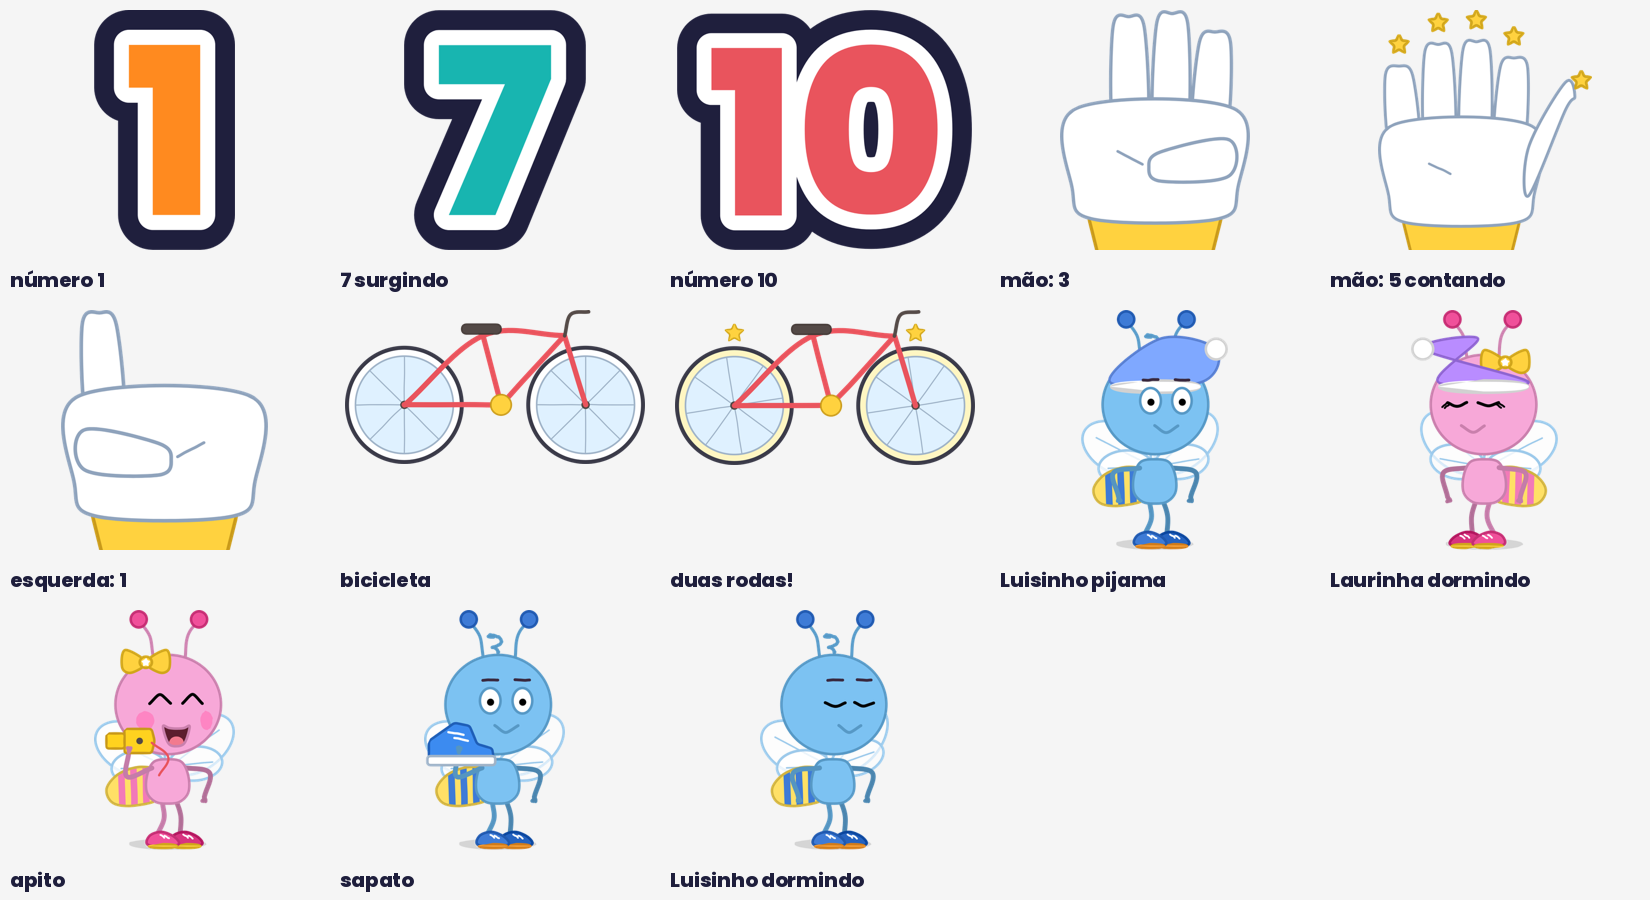
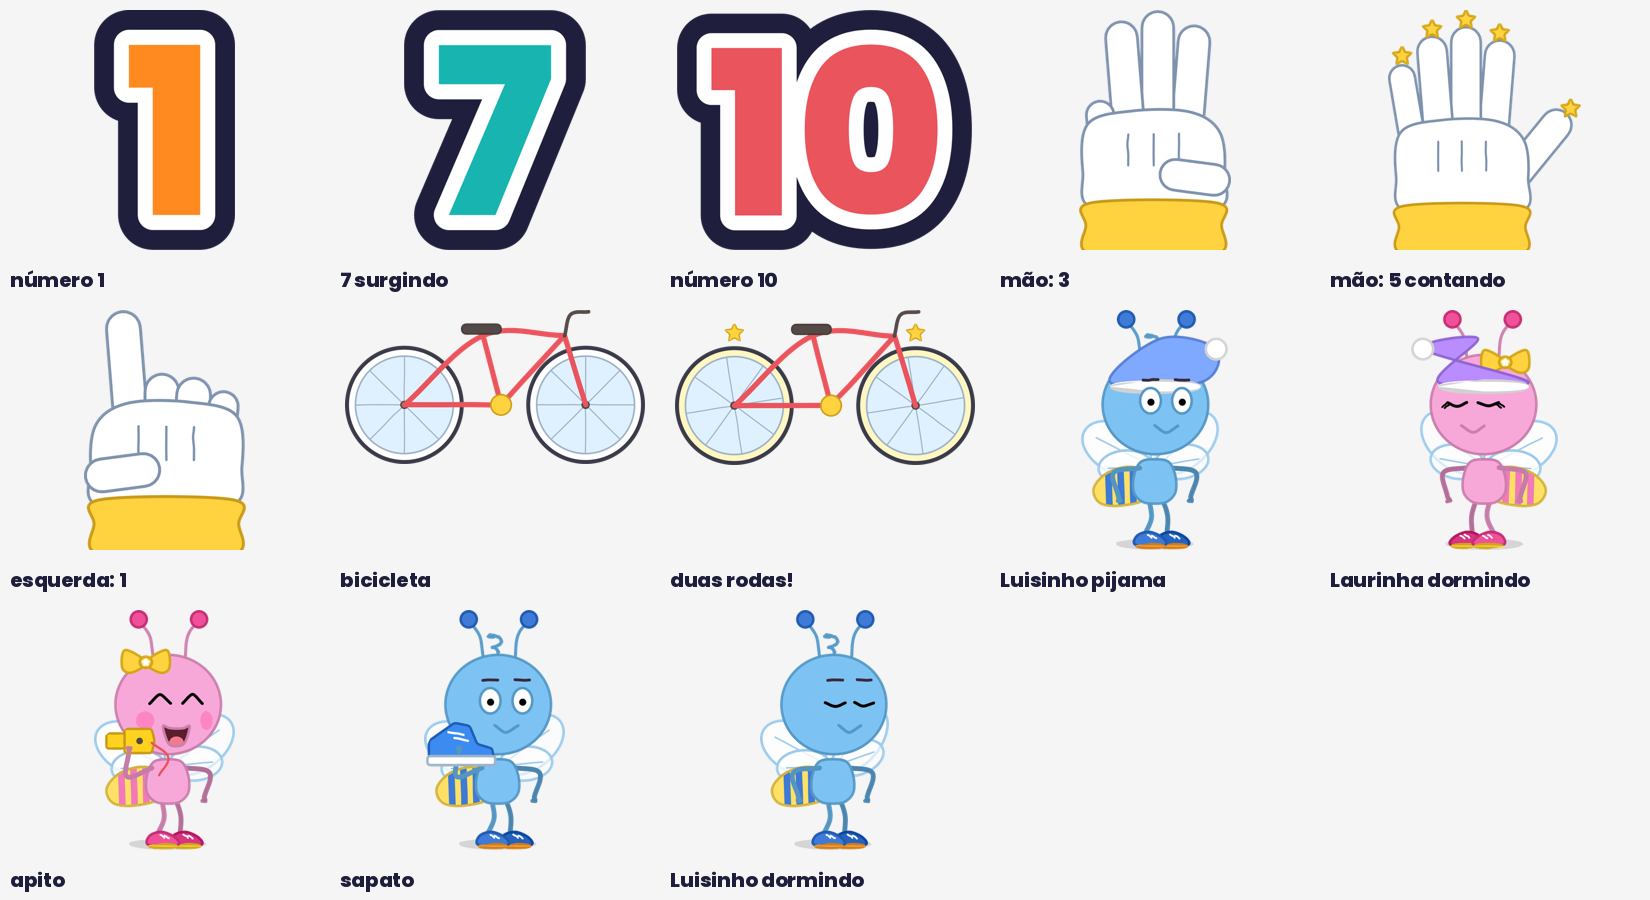
Mão de luva redesenhada: dedos-cápsula em leque saindo de trás da palma, polegar redondo, costuras e punho

Changed region(s): [[0.8345, 0.0, 0.9582, 0.28], [0.6491, 0.0, 0.7727, 0.28], [0.0309, 0.3422, 0.1545, 0.6222]]

diff --git a/toonstudio/characters/flat_props.py b/toonstudio/characters/flat_props.py
@@ -920,42 +920,61 @@ class Numero(_Prop):
         k.c.restore()
 
 
+def _capsula(k: Ink, p0, p1, r: float, fill: str, line: str) -> None:
+    """Dedo de luva: cápsula (bastão de pontas redondas) de p0 a p1, raio r."""
+    dx, dy = p1[0] - p0[0], p1[1] - p0[1]
+    L = math.hypot(dx, dy) or 1.0
+    a = math.atan2(dy, dx)
+    pts = [(p1[0] + r * math.cos(a - math.pi / 2 + math.pi * u / 10), p1[1] + r * math.sin(a - math.pi / 2 + math.pi * u / 10))
+           for u in range(11)]
+    pts += [(p0[0] + r * math.cos(a + math.pi / 2 + math.pi * u / 10), p0[1] + r * math.sin(a + math.pi / 2 + math.pi * u / 10))
+            for u in range(11)]
+    shape(k, pts, fill, line=line, smooth=False)
+
+
 class Mao(_Prop):
-    """Mão gigante de luva (desenho infantil) mostrando `dedos` 0→5 levantados (um por um: polegar por último);
-    `acende` 0→1 = os dedos levantados ganham uma estrelinha (contando). `espelho` 1 = mão esquerda."""
+    """Mão gigante de luva (desenho infantil) mostrando `dedos` 0→5 levantados (indicador primeiro, polegar por último);
+    `acende` 0→1 = estrelinha na ponta dos dedos levantados (contando). `espelho` 1 = mão esquerda.
+    Dedos-cápsula em leque saindo de TRÁS da palma, polegar redondo, punho de luva (o 1º desenho, com dedos-palito
+    retos e polegar de banana, ficou estranho — storyboard ep05)."""
 
     def __init__(self):
-        super().__init__("mao", "Mão", (520, 700), (260, 660), 330, {"dedos": 5.0, "espelho": 0.0, "acende": 0.0})
+        super().__init__("mao", "Mão", (560, 720), (280, 680), 330, {"dedos": 5.0, "espelho": 0.0, "acende": 0.0})
 
     def paint(self, k, P):
         d = max(0.0, min(5.0, P["dedos"]))
         sg = -1 if P.get("espelho", 0) > 0.5 else 1
-        luva, linha = "#FFFFFF", "#8FA3BC"
-        shape(k, [(sg * -110, -20), (sg * 110, -20), (sg * 90, 60), (sg * -90, 60)], "#FFD23F", line="#C99A1A", smooth=False)  # punho
-        dedos = ((-105, -300, -0.18), (-40, -340, -0.05), (25, -345, 0.05), (88, -315, 0.16))   # mínimo → indicador
-        ordem = (3, 2, 1, 0)                                         # 1º indicador, depois médio, anelar, mínimo
-        for j, (x, ytop, inc) in enumerate(dedos):
-            sobe = max(0.0, min(1.0, d - ordem.index(j)))
-            top = -150 + (ytop + 150) * sobe
-            pts = [(sg * (x - 26), -140), (sg * (x - 26 + inc * 60 * sobe), top + 20), (sg * (x + inc * 60 * sobe), top),
-                   (sg * (x + 26 + inc * 60 * sobe), top + 20), (sg * (x + 26), -140)]
-            shape(k, pts, luva, line=linha)
-            if sobe > 0.9 and P["acende"] > 0.05:
-                _estrela(k, sg * (x + inc * 60), top - 40, 20 * P["acende"], "#FFD23F")
-        shape(k, [(sg * -130, -190), (sg * 130, -190), (sg * 135, -60), (sg * 100, -10), (sg * -100, -10), (sg * -135, -60)], luva, line=linha)
-        po = max(0.0, min(1.0, d - 4))                               # polegar (5º): dobrado sobre a palma até levantar
-        if po < 0.05:                                                # dobrado: gomo deitado por cima da palma (não conta)
-            shape(k, [(sg * 120, -140), (sg * 10, -120), (sg * -10, -95), (sg * 10, -72), (sg * 120, -80)], luva, line=linha)
-            tip = (sg * 0, -96)
-        else:
-            ang = 0.5 - 1.6 * po                                     # sai de cima da palma e sobe para fora
-            bx = sg * 125
-            comp = 70 + 80 * po
-            tip = (bx + sg * math.cos(ang) * comp, -110 + math.sin(ang) * comp)
-            shape(k, [(bx, -150), (tip[0], tip[1] - 26), (tip[0] + sg * 18, tip[1]), (tip[0], tip[1] + 26), (bx, -60)], luva, line=linha)
-        ln(k, [(sg * -60, -120), (sg * -20, -100)], linha, w=LINE * 0.8)
-        if po > 0.9 and P["acende"] > 0.05:
-            _estrela(k, tip[0] + sg * 30, tip[1] - 30, 20 * P["acende"], "#FFD23F")
+        luva, linha = "#FFFFFF", "#7F93AE"
+        X = lambda x: sg * x
+        # (base x, base y, comprimento, ângulo em relação à vertical) — indicador, médio, anelar, mínimo
+        dedos = ((62, -200, 165, 0.10), (8, -212, 180, 0.0), (-46, -205, 168, -0.10), (-96, -185, 135, -0.22))
+        pontas = []
+        for j, (bx, by, comp, ang) in enumerate(dedos):
+            sobe = max(0.0, min(1.0, d - j))
+            L = 38 + (comp - 38) * sobe                                # dobrado: só o nó do dedo aparece
+            tip = (X(bx + math.sin(ang) * L), by - math.cos(ang) * L)
+            _capsula(k, (X(bx), by + 40), tip, 31 if j < 3 else 27, luva, linha)
+            if sobe > 0.9:
+                pontas.append((tip[0], tip[1] - 46))
+        po = max(0.0, min(1.0, d - 4))                                 # polegar
+        if po > 0.05:                                                  # levantado: sai do lado, atrás da palma
+            a = 1.15 - 0.45 * po
+            tip = (X(100 + math.sin(a) * 150), -105 - math.cos(a) * 150)
+            _capsula(k, (X(90), -90), tip, 32, luva, linha)
+            if po > 0.9:
+                pontas.append((tip[0] + X(30), tip[1] - 34))
+        palma = [(X(-128), -205), (X(-40), -230), (X(70), -228), (X(128), -190), (X(138), -110), (X(118), -38), (X(-112), -38),
+                 (X(-138), -112)]
+        shape(k, palma, luva, line=linha)
+        for x in (-50, 0, 50):                                         # costuras da luva
+            ln(k, [(X(x), -185), (X(x), -125)], linha, w=LINE * 0.8)
+        if po <= 0.05:                                                 # dobrado: deitado por cima da palma
+            _capsula(k, (X(118), -96), (X(42), -106), 30, luva, linha)
+        shape(k, [(X(-120), -52), (X(120), -52), (X(132), -8), (X(118), 50), (X(-118), 50), (X(-132), -8)], "#FFD23F",
+              line="#C99A1A")                                          # punho
+        if P["acende"] > 0.05:
+            for x, y in pontas:
+                _estrela(k, x, y, 22 * P["acende"], "#FFD23F")
 
 
 class Bicicleta(_Prop):
